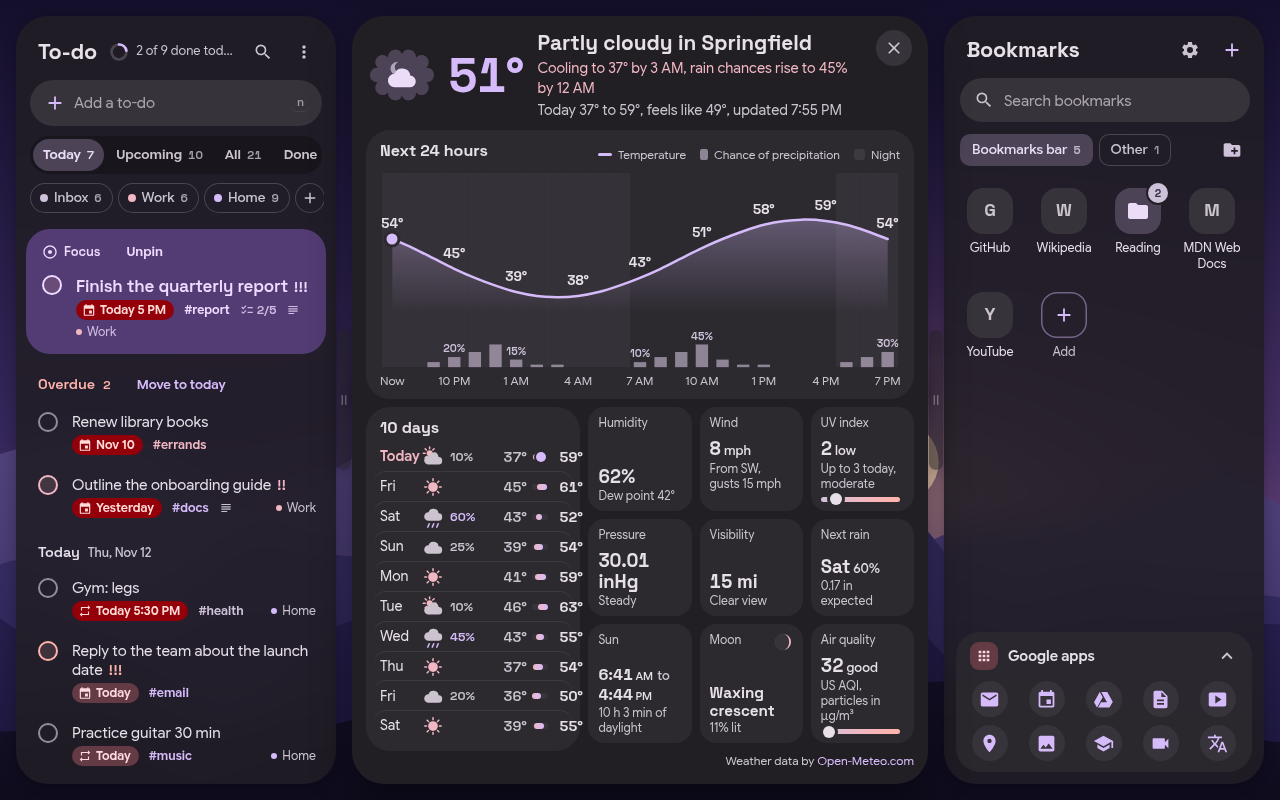
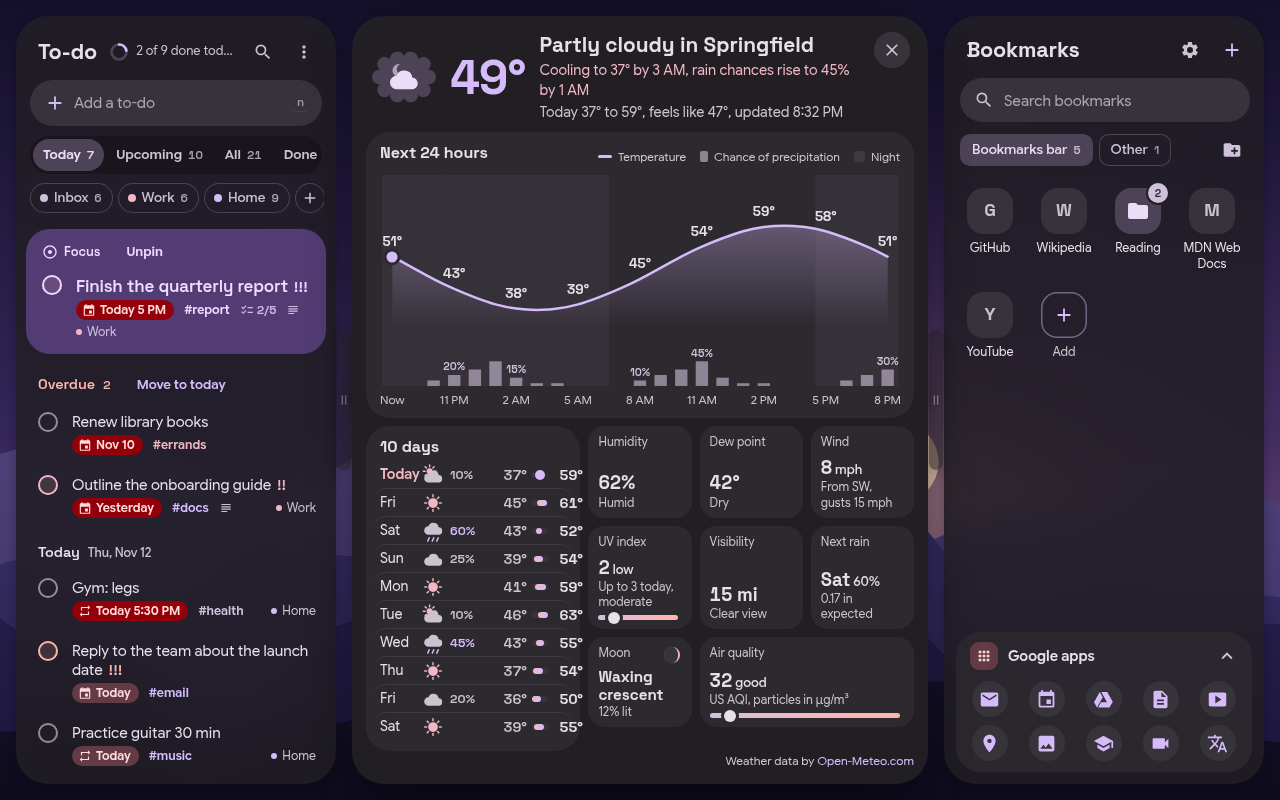
Weather details explain each reading; no sun or pressure
Every tile in More details has a short plain-words line on what it means (also its tooltip), for example
what the dew point says about how muggy it feels. The Sun and Pressure tiles and the band's Sunrise and
Pressure chips are gone; the band shows six readings and the grid stays full at every size, with a shorter
chart on 1080p-height pages so it all fits. Store screenshot retaken.

diff --git a/extension/scripts/weather-card.js b/extension/scripts/weather-card.js
@@ -45,7 +45,6 @@
         }
         return mm < 0.05 ? "0 mm" : `${mm >= 10 ? Math.round(mm) : mm.toFixed(1)} mm`;
     }
-    const pressure = (hpa) => fahrenheit() ? `${(hpa * 0.02953).toFixed(2)} inHg` : `${Math.round(hpa)} hPa`;
     function distance(m) {
         const v = fahrenheit() ? m / 1609.344 : m / 1000;
         return `${v >= 10 ? Math.round(v) : v.toFixed(1)} ${fahrenheit() ? "mi" : "km"}`;
@@ -55,7 +54,6 @@
     const esc = (t) => String(t).replace(/[&<>"]/g, (c) => ({ "&": "&amp;", "<": "&lt;", ">": "&gt;", '"': "&quot;" })[c]);
     const t12 = (t) => { const h = +t.slice(11, 13); return `${h % 12 || 12}:${t.slice(14, 16)} ${h < 12 ? "AM" : "PM"}`; };
     const hourLabel = (t) => { const h = +t.slice(11, 13); return `${h % 12 || 12} ${h < 12 ? "AM" : "PM"}`; };
-    const mins = (t) => +t.slice(11, 13) * 60 + +t.slice(14, 16);
     // i: days from today (0 today, 1 tomorrow, anything else the weekday).
     const dayName = (date, i, long) => i === 0 ? "Today" : i === 1 ? "Tomorrow"
         : new Date(date + "T12:00:00").toLocaleDateString("en-US", { weekday: long ? "long" : "short" });
@@ -70,14 +68,6 @@
         : a <= 300 ? "very poor" : "hazardous";
     const isWet = (code) => { const k = window.weatherKind(code); return k === "rain" || k === "snow" || k === "storm"; };
     const wetWord = (code) => window.weatherKind(code) === "snow" ? "Snow" : "Rain";
-    function daylight(sec) {
-        const m = Math.round(sec / 60);
-        return `${Math.floor(m / 60)} h ${m % 60} min`;
-    }
-    function dayChange(sec) {
-        const m = Math.round(sec / 60);
-        return m === 0 ? ", about the same tomorrow" : `, ${Math.abs(m)} min ${m > 0 ? "more" : "less"} tomorrow`;
-    }
     // Moon phase from the date (mean synodic month from the new moon of 2000-01-06 18:14 UTC).
     function moon(now) {
         const syn = 29.530588853, ref = Date.UTC(2000, 0, 6, 18, 14);
@@ -112,7 +102,6 @@
         close: svg('<path d="M6.4 19 5 17.6 10.6 12 5 6.4 6.4 5 12 10.6 17.6 5 19 6.4 13.4 12 19 17.6 17.6 19 12 13.4z"/>'),
         thermo: svg('<path d="M12 21q-2.08 0-3.54-1.46T7 16q0-1.2.53-2.24T9 12V5q0-1.25.88-2.13T12 2t2.13.88T15 5v7q.95.73 1.48 1.76T17 16q0 2.08-1.46 3.54T12 21m-1-11h2V9h-1V8h1V6h-1V5h1q0-.43-.29-.71T12 4t-.71.29T11 5z"/>'),
         dew: svg('<path d="M7 3c-.2 0-.3.1-.4.2C5.4 4.6 3 7.5 3 9.6a4 4 0 0 0 8 0c0-2.1-2.4-5-3.6-6.4-.1-.1-.2-.2-.4-.2m10 5c-.2 0-.3.1-.4.2-1.2 1.4-3.6 4.3-3.6 6.4a4 4 0 0 0 8 0c0-2.1-2.4-5-3.6-6.4-.1-.1-.2-.2-.4-.2M8 15c-.2 0-.3.1-.4.2-.9 1-2.1 2.6-2.1 3.8a2.5 2.5 0 0 0 5 0c0-1.2-1.2-2.8-2.1-3.8-.1-.1-.2-.2-.4-.2"/>'),
-        gauge: svg('<path d="M12 4a9 9 0 0 0-7.8 13.5l1.7-1A7 7 0 0 1 5.05 13H7v-2H5.07A7 7 0 0 1 11 5.07V7h2V5.07A7 7 0 0 1 18.93 11H17v2h1.95a7 7 0 0 1-.85 3.5l1.7 1A9 9 0 0 0 12 4m3.3 4.3-4.2 4.2a1.5 1.5 0 1 0 2.12 2.12l3.5-5.6z"/>'),
         eye: svg('<path d="M12 16q1.88 0 3.19-1.31T16.5 11.5t-1.31-3.19T12 7 8.81 8.31 7.5 11.5t1.31 3.19T12 16m0-1.8q-1.13 0-1.91-.79T9.3 11.5t.79-1.91T12 8.8t1.91.79.79 1.91-.79 1.91-1.91.79m0 4.8q-3.65 0-6.65-2.04T1 11.5q1.35-3.42 4.35-5.46T12 4t6.65 2.04T23 11.5q-1.35 3.42-4.35 5.46T12 19"/>'),
         cloud: svg('<path d="M6.5 20q-2.27 0-3.89-1.57T1 14.58q0-1.95 1.17-3.48T5.25 9.15q.63-2.3 2.5-3.72T12 4q2.93 0 4.96 2.04T19 11q1.73.2 2.86 1.49T23 15.5q0 1.88-1.31 3.19T18.5 20z"/>'),
         moon: svg('<path d="M12 21q-3.75 0-6.37-2.63T3 12t2.63-6.37T12 3q.35 0 .69.03t.66.07q-1.03.73-1.64 1.9T11.1 7.5q0 2.25 1.58 3.83T16.5 12.9q1.38 0 2.54-.61t1.88-1.64q.05.33.07.66T21 12q0 3.75-2.63 6.38T12 21"/>'),
@@ -251,15 +240,6 @@
     const SECS = [["h", "Hours", "Next 12 hours"], ["d", "Days", "Next 7 days"]];
     const EXPAND = svg('<path d="M3 21v-7h2v3.6L17.6 5H14V3h7v7h-2V6.4L6.4 19H10v2z"/>');
 
-    // The sunrise and sunset still to come, soonest first.
-    function sunAhead(w) {
-        const n = placeNow(w), t = todayAt(w), ev = [];
-        w.days.slice(t, t + 2).forEach((d) => {
-            if (d.sunrise) ev.push({ rise: true, at: d.sunrise });
-            if (d.sunset) ev.push({ rise: false, at: d.sunset });
-        });
-        return ev.filter((e) => tms(e.at) > n).sort((a, b) => tms(a.at) - tms(b.at));
-    }
     // Tomorrow without its name: "65°, rain 85%".
     const tomorrowBit = (w) => tomorrowLine(w).replace(/^Tomorrow /, "");
 
@@ -286,16 +266,13 @@
             ` data-k="now" data-g="m"`);
     }
 
-    // The readings panel, most important first (rows of three, or four when the band is wide enough to show
-    // pressure and visibility too). Each opens the detail view at its tile.
+    // The readings panel, most important first, two rows of three (owner 2026-11-12: no sun, no pressure). Each opens
+    // the detail view at its tile. When air quality or visibility is missing, the dew point fills its place.
     function readingItems(w) {
         const t = todayAt(w), today = w.days[t] || { rain: 0, mm: 0 };
         const rain = Math.round(today.rain || 0), mm = today.mm || 0;
         const calm = speedNum(w.wind) < 2;
         const cmp = COMPASS_SHORT[point(w.windDir)];
-        const sun = sunAhead(w), s0 = sun[0], s1 = sun[1];
-        const ampm = (t) => t12(t).replace(/ (AM|PM)$/, "<small> $1</small>");
-        const trend = w.pressureTrend > 1 ? "Rising" : w.pressureTrend < -1 ? "Falling" : "Steady";
         const vis = w.visibility;
         const list = [
             ["rain", "primary", I.drop, "Rain today", `${rain}%`,
@@ -313,15 +290,11 @@
             `US air quality index ${Math.round(w.air.aqi)}, ${aqiWord(w.air.aqi).toLowerCase()}`]);
         list.push(["humid", "secondary", I.humid, "Humidity", `${Math.round(w.humidity)}%`, `Dew point ${deg(w.dew)}`,
             `Humidity ${Math.round(w.humidity)}%, dew point ${deg(w.dew)}`]);
-        if (s0) list.push(["sun", "tertiary", s0.rise ? I.sunrise : I.sunset, s0.rise ? "Sunrise" : "Sunset", ampm(s0.at),
-            s1 ? `${s1.rise ? "Rises" : "Sets"} ${t12(s1.at)}` : "",
-            `${s0.rise ? "Sunrise" : "Sunset"} at ${t12(s0.at)}${s1 ? `, ${s1.rise ? "sunrise" : "sunset"} at ${t12(s1.at)}` : ""}`]);
-        list.push(["pres", "secondary", I.gauge, "Pressure", pressure(w.pressure).replace(/ (\S+)$/, "<small> $1</small>"), trend,
-            `Pressure ${pressure(w.pressure)}, ${trend.toLowerCase()}`]);
         if (vis != null) list.push(["vis", "secondary", I.eye, "Visibility", distance(vis).replace(/ (\S+)$/, "<small> $1</small>"),
             vis >= 10000 ? "Clear view" : vis >= 5000 ? "Light haze" : vis >= 1000 ? "Hazy" : "Fog",
             `Visibility ${distance(vis)}`]);
-        return list.map(([key, , , name, value, sub, aria], i) => item(`dlb-rd${i >= 6 ? " dlb-rd-x" : ""}`, aria,
+        if (list.length < 6) list.push(["dew", "secondary", "", "Dew point", deg(w.dew), dewWord(w.dew), `Dew point ${deg(w.dew)}`]);
+        return list.slice(0, 6).map(([key, , , name, value, sub, aria]) => item("dlb-rd", aria,
             `<span class="dlb-tl">${name}</span><span class="dlb-v">${value}</span>` +
             `<span class="dlb-s">${sub}</span>`, ` data-k="metric" data-m="${key}" data-g="m"`)).join("");
     }
@@ -646,30 +619,34 @@
     }
 
     // Tile titles are words only (owner 2026-11-12: no extra symbols on the tiles).
-    const tile = (cls, label, value, sub, extra = "") => `
-        <div class="dlw-tile ${cls}"><div class="dlw-tl">${label}</div>
-            <div class="dlw-tv">${value}</div>${sub ? `<div class="dlw-ts">${sub}</div>` : ""}${extra}</div>`;
+    // `why` is a plain-words line on what the reading means (owner 2026-11-12: "I kind of want explanations"). It shows
+    // under the reading in the wide layout and as the tile's tooltip everywhere.
+    const tile = (cls, label, value, sub, extra = "", why = "") => `
+        <div class="dlw-tile ${cls}"${why ? ` title="${esc(why)}"` : ""}><div class="dlw-tl">${label}</div>
+            <div class="dlw-tv">${value}</div>${sub ? `<div class="dlw-ts">${sub}</div>` : ""}${extra}${why ? `<p class="dlw-tx">${esc(why)}</p>` : ""}</div>`;
+    const dewWord = (c) => { const f = c * 9 / 5 + 32; return f < 50 ? "Dry" : f < 60 ? "Comfortable" : f < 65 ? "Sticky" : "Muggy"; };
     const meter = (frac, label) => `<div class="dlw-meter" aria-hidden="true" title="${esc(label)}"><b style="left:${clamp(frac, 0, 1) * 100}%"></b></div>`;
 
     function tiles(w) {
         const t = todayAt(w), today = w.days[t] || {}, tomorrow = w.days[t + 1];
         const feelsGap = tval(w.feels) - tval(w.temp);
-        const dewF = w.dew * 9 / 5 + 32;
-        const trend = [w.pressureTrend > 1 ? "Rising" : w.pressureTrend < -1 ? "Falling" : "Steady"];
         const vis = w.visibility;
         const m = moon(Date.now());
         const out = [];
         // Feels like only when it differs (the band shows it then too); cloud cover is gone (the condition says it).
-        // In the narrow layout the header line says feels like instead (dlw-t-feels is hidden there), and the
-        // humidity tile carries the dew point, so the tiles make three rows beside the 10 days.
+        // In the narrow layout the header line says feels like instead (dlw-t-feels is hidden there).
+        // Wide grid, three columns, no holes: [feels, humidity, dew] [wind, UV, visibility] [wind, rain, moon] [air].
+        // A missing feels-like widens the dew point, a missing visibility widens the moon.
         if (Math.abs(feelsGap) >= 1.5) out.push(tile("dlw-t-feels", "Feels like", deg(w.feels),
-            feelsGap < 0 ? `Cooler than the ${deg(w.temp)} air` : `Warmer than the ${deg(w.temp)} air`));
+            feelsGap < 0 ? `Cooler than the ${deg(w.temp)} air` : `Warmer than the ${deg(w.temp)} air`, "",
+            feelsGap < 0 ? "Wind and damp air pull heat from your skin."
+                : "Humid, still air keeps your body from cooling off."));
         out.push(tile("dlw-t-humid", "Humidity", `${Math.round(w.humidity)}%`,
-            `<span class="dlw-wide">${w.humidity < 30 ? "Dry air" : w.humidity <= 60 ? "Comfortable" : w.humidity <= 80 ? "Humid" : "Very humid"}</span>` +
-            `<span class="dlw-narrow">Dew point ${deg(w.dew)}</span>`));
+            w.humidity < 30 ? "Dry air" : w.humidity <= 60 ? "Comfortable" : w.humidity <= 80 ? "Humid" : "Very humid", "",
+            "Water in the air, out of the most it can hold at this temperature."));
         const noFeels = Math.abs(feelsGap) < 1.5;
-        out.push(tile("dlw-t-dew" + (noFeels ? " dlw-w2" : ""), "Dew point", deg(w.dew),
-            dewF < 50 ? "Dry" : dewF < 60 ? "Comfortable" : dewF < 65 ? "Sticky" : "Muggy"));
+        out.push(tile("dlw-t-dew" + (noFeels ? " dlw-w2" : ""), "Dew point", deg(w.dew), dewWord(w.dew), "",
+            `Air cooled to ${deg(w.dew)} would form dew. Below ${deg(10)} feels dry, above ${deg(16)} sticky.`));
         // Wind with a compass (the arrow points where the wind goes).
         const ticks = [...Array(36)].map((_, i) => `<line x1="50" y1="${i % 9 ? 7 : 5}" x2="50" y2="${i % 9 ? 10 : 12}" transform="rotate(${i * 10} 50 50)"/>`).join("");
         out.push(tile("dlw-wind dlw-t-wind", "Wind", `${speedNum(w.wind)}<small> ${speedUnit()}</small>`,
@@ -677,42 +654,41 @@
             `<div class="dlw-compass" aria-hidden="true"><svg viewBox="0 0 100 100"><circle cx="50" cy="50" r="44" class="dlw-ring"/>
                 <g class="dlw-ticks">${ticks}</g>
                 <text x="50" y="23">N</text><text x="80" y="54">E</text><text x="50" y="85">S</text><text x="20" y="54">W</text></svg>
-                <span class="dlw-arrow" style="--dir:${(w.windDir + 180) % 360}deg">${I.arrow}</span></div>`));
+                <span class="dlw-arrow" style="--dir:${(w.windDir + 180) % 360}deg">${I.arrow}</span></div>`,
+            "The arrow points where the wind blows. Gusts are short, stronger bursts."));
         out.push(tile("dlw-t-uv", "UV index", `${Math.round(w.uv)}<small> ${uvWord(w.uv).toLowerCase()}</small>`,
             today.uvMax != null ? `Up to ${Math.round(today.uvMax)} today, ${uvWord(today.uvMax).toLowerCase()}` : "",
-            meter(w.uv / 11, "UV scale 0 to 11")));
-        out.push(tile("dlw-t-pres", "Pressure", pressure(w.pressure), trend[0]));
+            meter(w.uv / 11, "UV scale 0 to 11"), "Strength of the sun's burning rays. At 3 or more, wear sunscreen."));
         if (vis != null) out.push(tile("dlw-t-vis", "Visibility", distance(vis),
-            vis >= 10000 ? "Clear view" : vis >= 5000 ? "Light haze" : vis >= 1000 ? "Hazy" : "Fog"));
+            vis >= 10000 ? "Clear view" : vis >= 5000 ? "Light haze" : vis >= 1000 ? "Hazy" : "Fog", "",
+            `How far you can see clearly. Under ${distance(1000)} is fog.`));
         // Rain: today's amount when today is wet, else the next wet day.
         if ((today.rain || 0) >= 50) {
-            out.push(tile("dlw-t-rain" + (vis == null ? " dlw-w2" : ""), "Rain today", amount(today.mm || 0),
-                `${Math.round(today.rain)}% chance${tomorrow ? `, ${Math.round(tomorrow.rain)}% tomorrow` : ""}`));
+            out.push(tile("dlw-t-rain", "Rain today", amount(today.mm || 0),
+                `${Math.round(today.rain)}% chance${tomorrow ? `, ${Math.round(tomorrow.rain)}% tomorrow` : ""}`, "",
+                "Chance of rain today, and how much should fall."));
         } else {
             const j = w.days.findIndex((d, i) => i > t && d.rain >= 50);
             const d = w.days[j];
-            out.push(tile("dlw-t-rain" + (vis == null ? " dlw-w2" : ""), "Next rain", d ? `${dayName(d.date, 2)}<small> ${d.rain}%</small>` : "None",
-                d ? `${j - t === 1 ? "Tomorrow, " : ""}${amount(d.mm)} expected` : `Dry for ${w.days.length - t} days`));
+            out.push(tile("dlw-t-rain", "Next rain", d ? `${dayName(d.date, 2)}<small> ${d.rain}%</small>` : "None",
+                d ? `${j - t === 1 ? "Tomorrow, " : ""}${amount(d.mm)} expected` : `Dry for ${w.days.length - t} days`, "",
+                "The next day with a 50% or higher chance of rain."));
         }
-        // Sun: today's arc with the sun where it is now.
-        if (today.sunrise) {
-            const rise = mins(today.sunrise), set = mins(today.sunset), now = mins(iso(placeNow(w)));
-            const p = (now - rise) / Math.max(set - rise, 1), up = p >= 0 && p <= 1;
-            const sx = 60 - 50 * Math.cos(Math.PI * p), sy = 56 - 46 * Math.sin(Math.PI * p);
-            const at = (t) => `<span class="dlw-nw">${t12(t).replace(/ (AM|PM)$/, "<small> $1</small>")}</span>`;
-            out.push(tile("dlw-sun", "Sun", `${at(today.sunrise)} <i class="dlw-to">to</i> ${at(today.sunset)}`,
-                `${daylight(today.daylight)} of daylight${tomorrow ? `<span class="dlw-wide">${dayChange(tomorrow.daylight - today.daylight)}</span>` : ""}`,
-                `<svg class="dlw-arc" viewBox="0 0 120 62" aria-hidden="true"><path d="M10 56A50 46 0 0 1 110 56" class="dlw-arc-path"/>
-                    <line x1="2" y1="56" x2="118" y2="56" class="dlw-arc-ground"/>${up ? `<circle cx="${sx.toFixed(1)}" cy="${sy.toFixed(1)}" r="6" class="dlw-arc-sun"/>` : ""}</svg>`));
-        }
-        out.push(tile("dlw-moon", "Moon", m.name, `${Math.round(m.lit * 100)}% lit`,
-            `<svg class="dlw-moonpic" viewBox="0 0 40 40" aria-hidden="true"><circle cx="20" cy="20" r="16" class="dlw-moon-dark"/><path d="${moonPath(m.age)}" class="dlw-moon-lit"/></svg>`));
+        const toFull = Math.round(((0.5 - m.age + 1) % 1) * 29.53);
+        out.push(tile("dlw-moon" + (vis == null ? " dlw-w2" : ""), "Moon", m.name, `${Math.round(m.lit * 100)}% lit`,
+            `<svg class="dlw-moonpic" viewBox="0 0 40 40" aria-hidden="true"><circle cx="20" cy="20" r="16" class="dlw-moon-dark"/><path d="${moonPath(m.age)}" class="dlw-moon-lit"/></svg>`,
+            m.name === "Full moon" ? "The whole face is lit tonight." : `Full moon in ${toFull} day${toFull === 1 ? "" : "s"}.`));
         if (w.air) {
             const a = w.air, n = (v) => v == null ? "?" : Math.round(v);
             out.push(tile("dlw-aqi dlw-t-air" + (a.aqi > 100 ? " dlw-bad" : ""), "Air quality", `${Math.round(a.aqi)}<small> ${aqiWord(a.aqi).toLowerCase()}</small>`,
                 "US AQI, particles in µg/m³",
                 meter(a.aqi / 300, "AQI scale 0 to 300") + `<dl class="dlw-pm"><div><dt>PM2.5</dt><dd>${n(a.pm25)}</dd></div>
-                    <div><dt>PM10</dt><dd>${n(a.pm10)}</dd></div><div><dt>Ozone</dt><dd>${n(a.ozone)}</dd></div></dl>`));
+                    <div><dt>PM10</dt><dd>${n(a.pm10)}</dd></div><div><dt>Ozone</dt><dd>${n(a.ozone)}</dd></div></dl>`,
+                (a.aqi <= 50 ? "Clean air, fine for everyone outside."
+                    : a.aqi <= 100 ? "Fine for most people. Very sensitive people may want to take it easy outside."
+                    : a.aqi <= 150 ? "People with asthma, kids and older adults should cut long outdoor exercise."
+                    : "Unhealthy: everyone should cut long or hard outdoor exercise.")
+                + " PM2.5 and PM10 are fine dust, ozone is smog."));
         }
         return out.join("");
     }
@@ -773,11 +749,11 @@
         detail.querySelectorAll(".dlw-on").forEach((e) => e.classList.remove("dlw-on"));
         const k = it && it.dataset.k;
         const tileOf = { rain: ".dlw-t-rain", wind: ".dlw-t-wind", uv: ".dlw-t-uv", air: ".dlw-t-air", humid: ".dlw-t-humid",
-            sun: ".dlw-sun", pres: ".dlw-t-pres", vis: ".dlw-t-vis" };
+            vis: ".dlw-t-vis", dew: ".dlw-t-dew" };
         const el = k === "hour" ? detail.querySelector(`.dlw-hits i[data-t="${it.dataset.t}"]`)
             : k === "day" ? detail.querySelector(`.dlw-ten li[data-d="${it.dataset.d}"]`)
             : k === "metric" ? detail.querySelector(tileOf[it.dataset.m])
-            : k === "sun" ? detail.querySelector(".dlw-sun") : null;
+            : k === "sun" ? detail.querySelector(".dlw-d-chartsec") : null;   // a sunrise or sunset in the strip: the chart
         const body = detail.querySelector(".dlw-d-body");
         if (!el) { body.scrollTop = 0; return; }
         el.classList.add("dlw-on");

diff --git a/extension/styles/weather.css b/extension/styles/weather.css
@@ -173,15 +173,9 @@
 .dlb-range .dlw-bar { height: 5px; }
 .dlb-range .dlw-bar b { width: 10px; height: 10px; box-shadow: 0 0 0 2px color-mix(in srgb, var(--dl-on_surface, #f1dfdb) 30%, transparent); }
 
-/* The readings: one glass panel with three (or, when wide, four) tiles in each of two rows. */
+/* The readings: one glass panel with three tiles in each of two rows. */
 .dlb-read { flex: 1; min-width: 0; height: 100%; border-radius: 28px; padding: 6px; display: grid; gap: 5px;
     grid-template-columns: repeat(3, minmax(0, 1fr)); grid-template-rows: repeat(2, minmax(0, 1fr)); }
-.dlb-rd.dlb-rd-x { display: none; }
-/* Both side columns folded (a band over 1000 px): room for pressure and visibility as well. */
-@container dlbm (min-width: 1000px) {
-    .dlb-read { grid-template-columns: repeat(4, minmax(0, 1fr)); }
-    .dlb-rd.dlb-rd-x { display: flex; }
-}
 .dlb-rd { min-width: 0; display: flex; flex-direction: column; align-items: flex-start; justify-content: center; gap: 3px;
     padding: 6px 14px; border-radius: 22px; text-align: left;
     background: color-mix(in srgb, var(--dl-on_surface, #f1dfdb) 5%, transparent); }
@@ -468,19 +462,13 @@
 .dlw-compass text { fill: var(--dl-on_surface_variant, #d8c2bd); font: 700 11px var(--f-display); text-anchor: middle; }
 .dlw-compass .dlw-arrow { position: absolute; inset: 0; }
 .dlw-compass .dlw-arrow svg { width: 40px; height: 40px; fill: var(--dl-primary, #ffb4a4); }
-.dlw-sun { grid-column: span 2; }
 .dlw-aqi { grid-column: 1 / -1; }
-.dlw-sun .dlw-tv, .dlw-sun .dlw-ts { padding-right: 116px; }
-.dlw-aqi .dlw-ts { padding-right: 140px; }
-.dlw-sun .dlw-tv { font-size: 1.5rem; }
-.dlw-sun .dlw-ts, .dlw-aqi .dlw-ts { white-space: normal; }
-.dlw-nw { white-space: nowrap; }
+.dlw-aqi .dlw-ts { padding-right: 140px; white-space: normal; }
 .dlw-narrow { display: none; }
-.dlw-to { margin: 0 4px; font: 500 0.8rem var(--f-body); font-style: normal; color: var(--dl-on_surface_variant, #d8c2bd); }
-.dlw-arc { position: absolute; right: 12px; bottom: 14px; width: 104px; }
-.dlw-arc-path { fill: none; stroke: var(--dl-outline, #a08c88); stroke-width: 1.5; stroke-dasharray: 3 4; }
-.dlw-arc-ground { stroke: var(--dl-outline_variant, #534340); stroke-width: 1.5; }
-.dlw-arc-sun { fill: var(--dl-tertiary, #dcc48c); stroke: var(--dl-surface_container_high, #322825); stroke-width: 3; }
+/* What the reading means, in plain words, under it (wide layout; a tooltip in the narrow one). */
+.dlw-tx { margin: 6px 0 0; font-size: 0.78rem; line-height: 1.35; text-wrap: pretty;
+    color: color-mix(in srgb, var(--dl-on_surface_variant, #d8c2bd) 78%, transparent); }
+.dlw-aqi .dlw-tx { padding-right: 140px; }
 .dlw-moonpic { position: absolute; right: 14px; top: 14px; width: 40px; height: 40px; }
 .dlw-moon-dark { fill: var(--dl-surface_container_highest, #3d3230); stroke: var(--dl-outline_variant, #534340); }
 .dlw-moon-lit { fill: var(--dl-tertiary, #dcc48c); }
@@ -497,6 +485,17 @@
 @container lemon (max-height: 769px) {
     .dlw-chart { height: 112px; margin-bottom: 22px; }
     .dlw-d-head { padding: 14px 16px 10px 18px; }
+}
+/* Mid-height pages (1920x1080 and the like): a shorter chart and compass, so the tiles with their explanations fit
+   without scrolling. */
+@container lemon (max-height: 1150px) {
+    .dlw-chart { height: 90px; margin-bottom: 22px; }
+    .dlw-d-head { padding: 16px 18px 10px 20px; }
+    .dlw-d-body { gap: 10px; }
+    .dlw-compass { width: 92px; height: 92px; }
+    .dlw-compass .dlw-arrow svg { width: 32px; height: 32px; }
+    .dlw-tile { padding: 10px 14px; }
+    .dlw-tv { font-size: 1.55rem; }
 }
 /* Narrow detail (the center column of a 1366 wide screen or a 1100 wide window, up to 940 px): five columns. The chart across the top, the
    10 days in the first two, the tiles (compact: no compass, sun arc or particle list, their words stay) three to a
@@ -525,12 +524,11 @@
     .dlw-ts { font-size: 0.76rem; line-height: 1.25; display: -webkit-box; -webkit-box-orient: vertical; -webkit-line-clamp: 2;
         overflow: hidden; }
     .dlw-wind { grid-row: auto; }
-    .dlw-sun, .dlw-aqi, .dlw-w2 { grid-column: auto; }
-    .dlw-compass, .dlw-arc, .dlw-pm, .dlw-t-feels, .dlw-t-dew, .dlw-wide { display: none; }
+    .dlw-w2 { grid-column: auto; }
+    .dlw-aqi { grid-column: span 2; }   /* humidity, dew, wind / UV, visibility, rain / moon, air: three full rows */
+    .dlw-compass, .dlw-pm, .dlw-t-feels, .dlw-wide, .dlw-tx { display: none; }
     .dlw-narrow { display: inline; }
-    .dlw-sun .dlw-tv, .dlw-sun .dlw-ts, .dlw-aqi .dlw-ts { padding-right: 0; }
-    .dlw-sun .dlw-tv { font-size: 1rem; white-space: normal; line-height: 1.2; }
-    .dlw-to { margin: 0; }
+    .dlw-aqi .dlw-ts { padding-right: 0; }
     .dlw-meter { margin: 5px 4px 1px 0; height: 5px; }
     .dlw-aqi .dlw-meter { margin-right: 4px; }
     .dlw-moonpic { width: 26px; height: 26px; top: 8px; right: 10px; }
